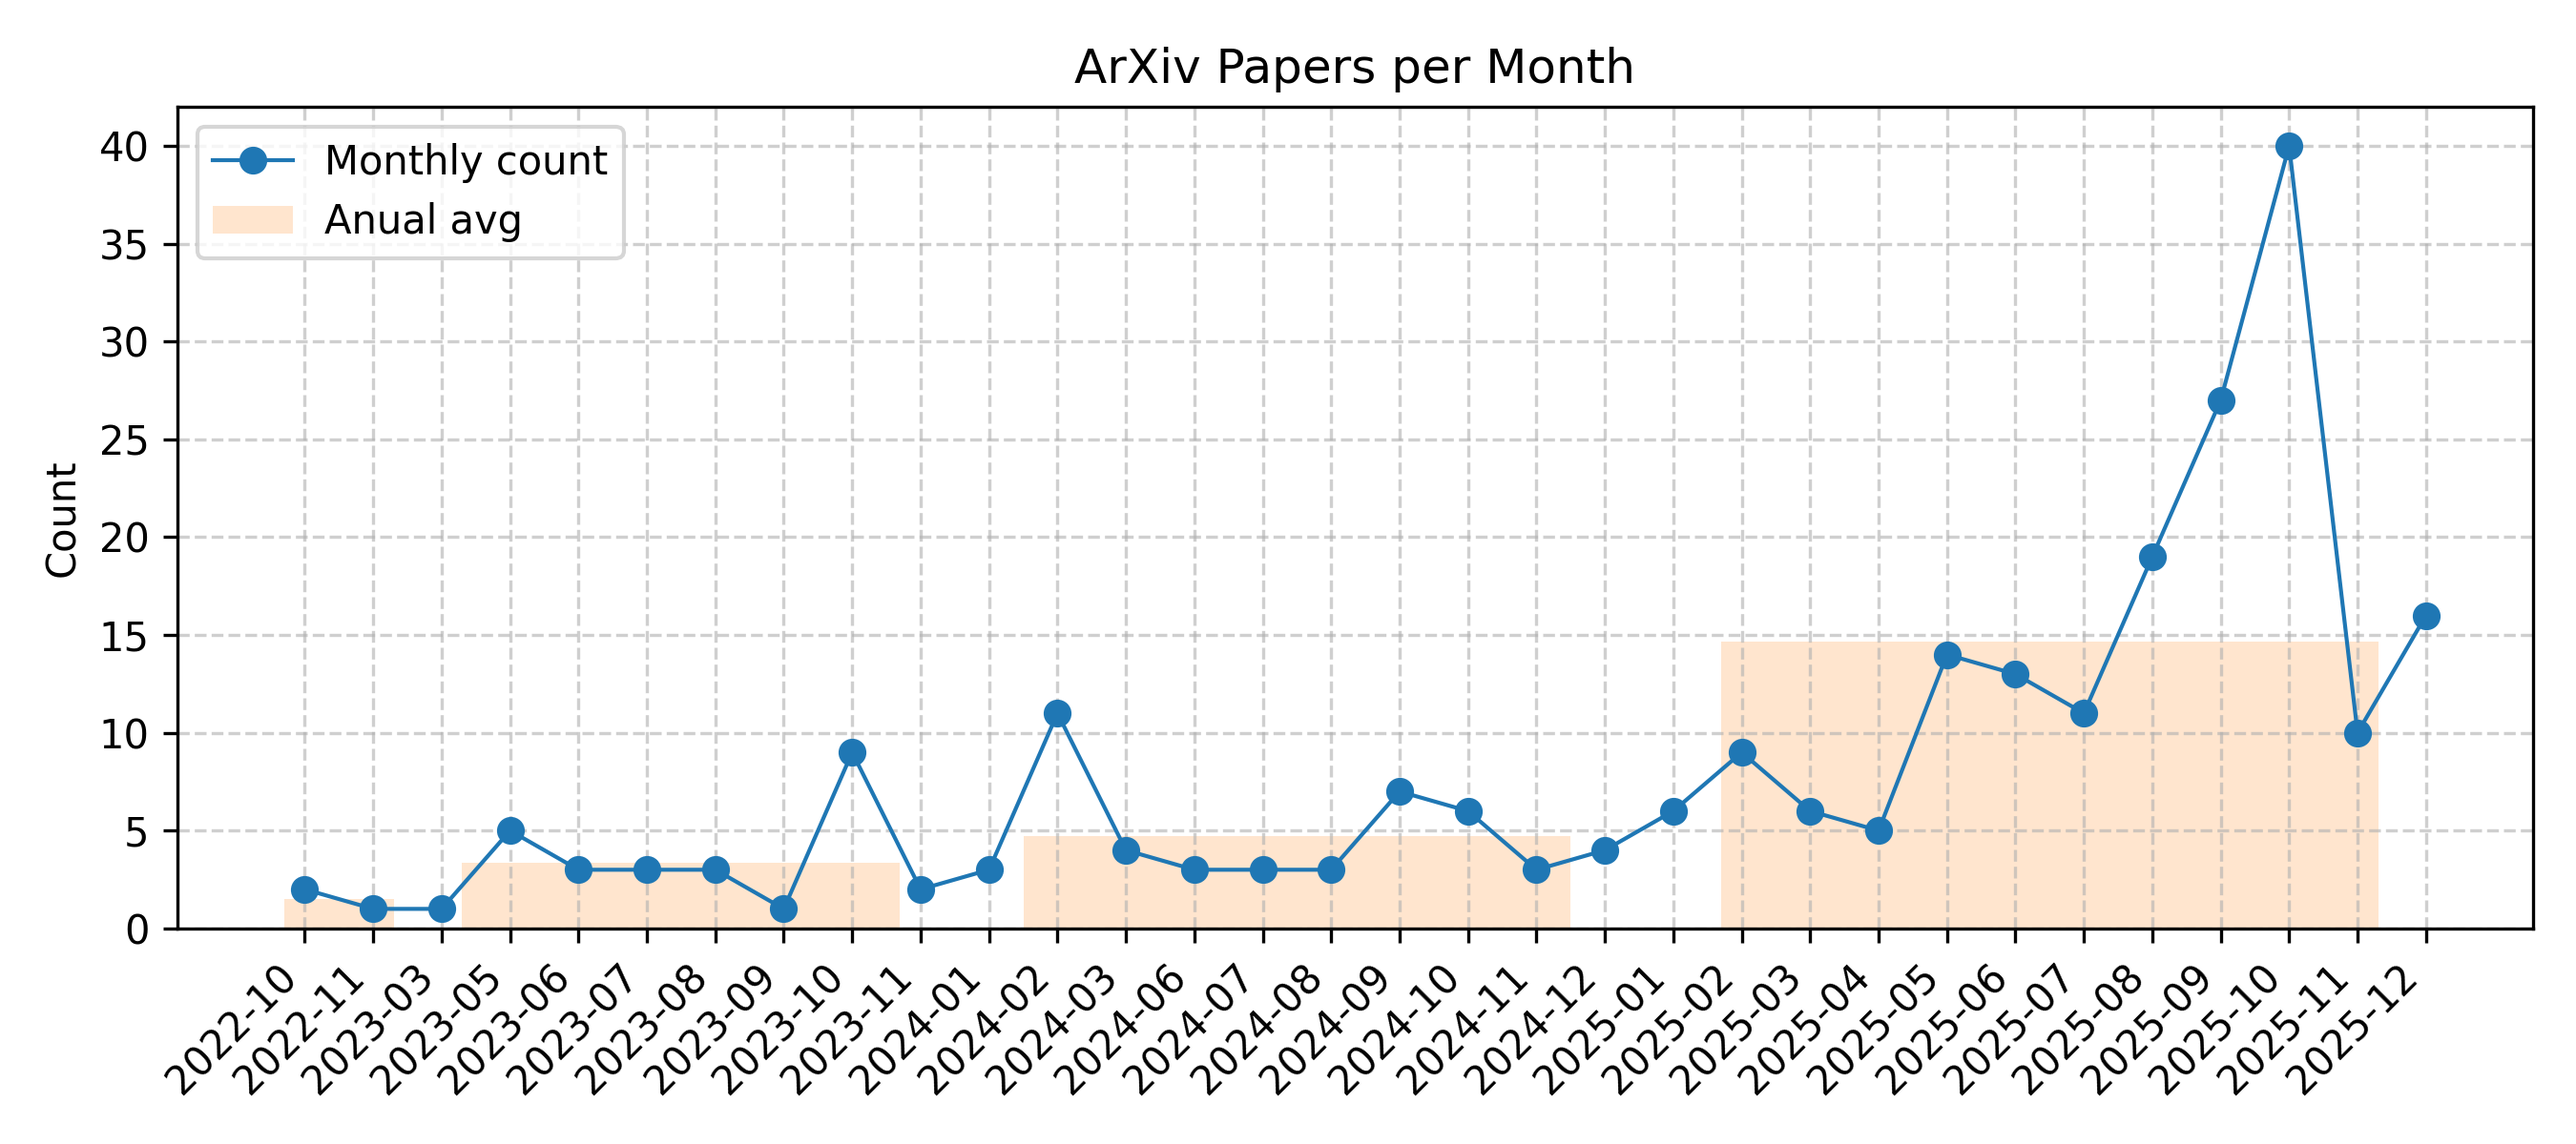
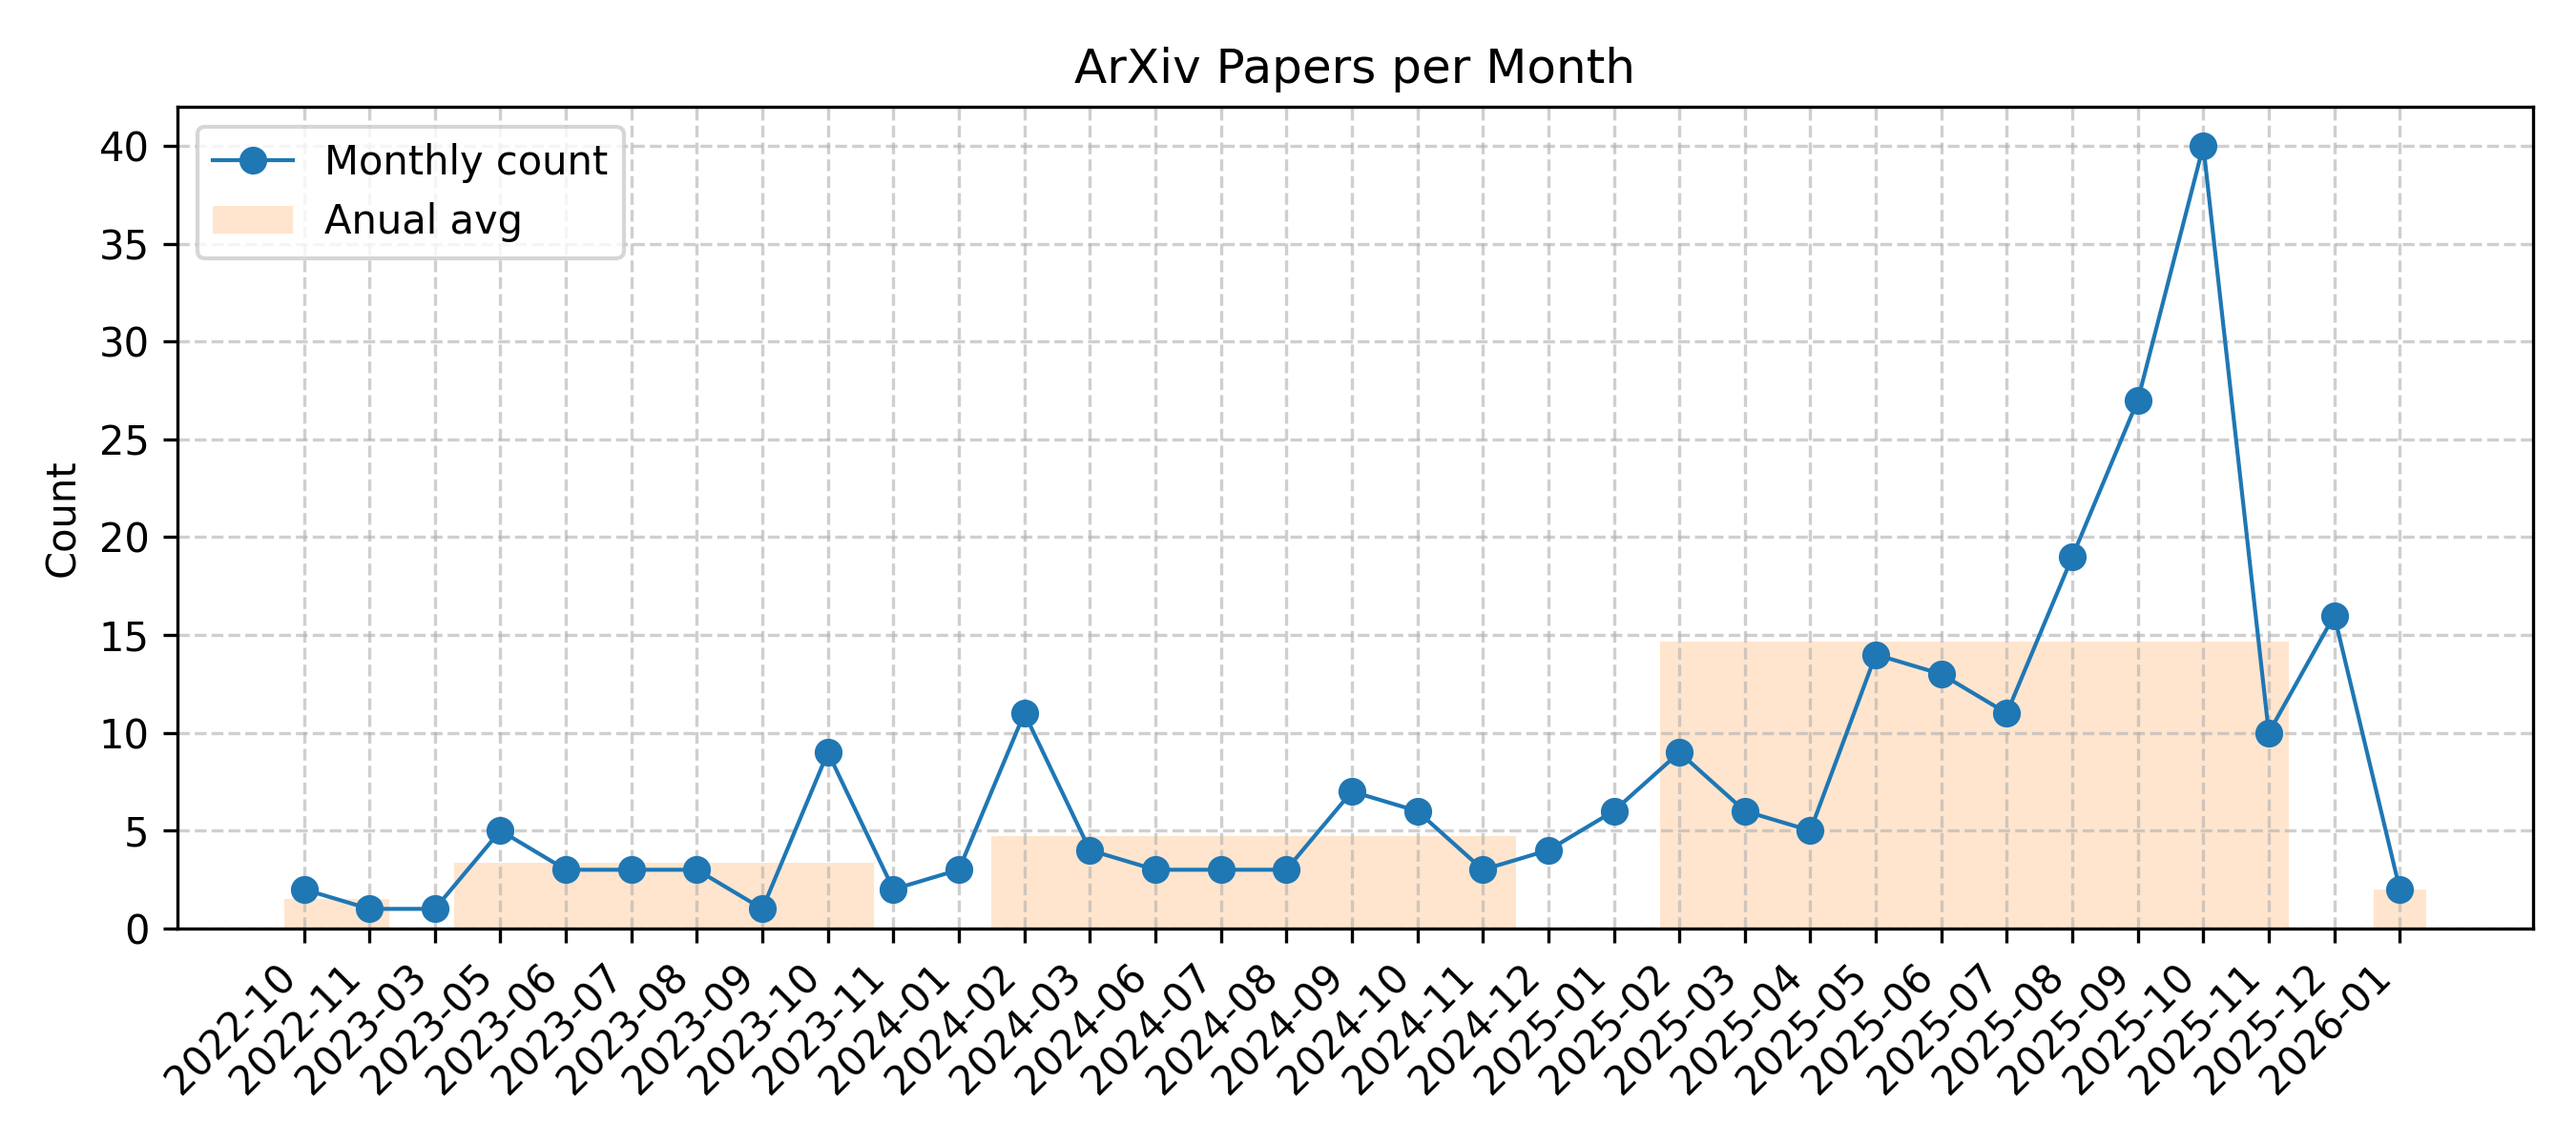
Github Action Automatic Update Diffusion NLP Arxiv Papers

diff --git a/README.md b/README.md
@@ -5,7 +5,7 @@
 
 For more carefully curated articles, you can refer to this [repository](https://github.com/bansky-cl/Diffusion_NLP_Papers).
 
-## Updated on 2026.01.05
+## Updated on 2026.01.06
 
 ![Monthly Trend](imgs/trend.png)
 
@@ -13,6 +13,8 @@ For more carefully curated articles, you can refer to this [repository](https://
 
 |Date|Title|label|Abstract|PDF|Code|
 |---|---|---|---|---|---|
+|**2026-01-05**|**CD4LM: Consistency Distillation and aDaptive Decoding for Diffusion Language Models**|cs.CL| <details><summary>Full Abstract</summary>Autoregressive large language models achieve strong results on many benchmarks, but decoding remains fundamentally latency-limited by sequential dependence on previously generated tokens. Diffusion language models (DLMs) promise parallel generation but suffer from a fundamental static-to-dynamic misalignment: Training optimizes local transitions under fixed schedules, whereas efficient inference requires adaptive "long-jump" refinements through unseen states. Our goal is to enable highly parallel decoding for DLMs with low number of function evaluations while preserving generation quality. To achieve this, we propose CD4LM, a framework that decouples training from inference via Discrete-Space Consistency Distillation (DSCD) and Confidence-Adaptive Decoding (CAD). Unlike standard objectives, DSCD trains a student to be trajectory-invariant, mapping diverse noisy states directly to the clean distribution. This intrinsic robustness enables CAD to dynamically allocate compute resources based on token confidence, aggressively skipping steps without the quality collapse typical of heuristic acceleration. On GSM8K, CD4LM matches the LLaDA baseline with a 5.18x wall-clock speedup; across code and math benchmarks, it strictly dominates the accuracy-efficiency Pareto frontier, achieving a 3.62x mean speedup while improving average accuracy. Code is available at https://github.com/yihao-liang/CDLM</details>|[2601.02236v1](http://arxiv.org/abs/2601.02236v1)| null|
+|**2026-01-05**|**Deferred Commitment Decoding for Diffusion Language Models with Confidence-Aware Sliding Windows**|cs.CL, cs.AI| <details><summary>Full Abstract</summary>Diffusion language models (DLMs) have recently emerged as a strong alternative to autoregressive models by enabling parallel text generation. To improve inference efficiency and KV-cache compatibility, prior work commonly adopts block-based diffusion, decoding tokens block by block. However, this paradigm suffers from a structural limitation that we term Boundary-Induced Context Truncation (BICT): undecoded tokens near block boundaries are forced to commit without access to nearby future context, even when such context could substantially reduce uncertainty. This limitation degrades decoding confidence and generation quality, especially for tasks requiring precise reasoning, such as mathematical problem solving and code generation. We propose Deferred Commitment Decoding (DCD), a novel, training-free decoding strategy that mitigates this issue. DCD maintains a confidence-aware sliding window over masked tokens, resolving low-uncertainty tokens early while deferring high-uncertainty tokens until sufficient contextual evidence becomes available. This design enables effective bidirectional information flow within the decoding window without sacrificing efficiency. Extensive experiments across multiple diffusion language models, benchmarks, and caching configurations show that DCD improves generation accuracy by 1.39% with comparable time on average compared to fixed block-based diffusion methods, with the most significant improvement reaching 9.0%. These results demonstrate that deferring token commitment based on uncertainty is a simple yet effective principle for improving both the quality and efficiency of diffusion language model decoding.</details>|[2601.02076v1](http://arxiv.org/abs/2601.02076v1)| null|
 |**2025-12-30**|**Activation Steering for Masked Diffusion Language Models**|cs.CL| <details><summary>Full Abstract</summary>Masked diffusion language models (MDLMs) generate text through an iterative denoising process. They have recently gained attention due to mask-parallel decoding and competitive performance with autoregressive large language models. However, effective mechanisms for inference-time control and steering in MDLMs remain largely unexplored. We present an activation-steering framework for MDLMs that computes layer-wise steering vectors from a single forward pass using contrastive examples, without simulating the denoising trajectory. These directions are applied at every reverse-diffusion step, yielding an efficient inference-time control mechanism. Experiments on LLaDA-8B-Instruct demonstrate reliable modulation of high-level attributes, with ablations examining the effects of steering across transformer sub-modules and token scope (prompt vs.\ response).</details>|[2512.24143v1](http://arxiv.org/abs/2512.24143v1)| null|
 |**2025-12-28**|**WeDLM: Reconciling Diffusion Language Models with Standard Causal Attention for Fast Inference**|cs.CL| <details><summary>Full Abstract</summary>Autoregressive (AR) generation is the standard decoding paradigm for Large Language Models (LLMs), but its token-by-token nature limits parallelism at inference time. Diffusion Language Models (DLLMs) offer parallel decoding by recovering multiple masked tokens per step; however, in practice they often fail to translate this parallelism into deployment speed gains over optimized AR engines (e.g., vLLM). A key reason is that many DLLMs rely on bidirectional attention, which breaks standard prefix KV caching and forces repeated contextualization, undermining efficiency. We propose WeDLM, a diffusion decoding framework built entirely on standard causal attention to make parallel generation prefix-cache friendly. The core idea is to let each masked position condition on all currently observed tokens while keeping a strict causal mask, achieved by Topological Reordering that moves observed tokens to the physical prefix while preserving their logical positions. Building on this property, we introduce a streaming decoding procedure that continuously commits confident tokens into a growing left-to-right prefix and maintains a fixed parallel workload, avoiding the stop-and-wait behavior common in block diffusion methods. Experiments show that WeDLM preserves the quality of strong AR backbones while delivering substantial speedups, approaching 3x on challenging reasoning benchmarks and up to 10x in low-entropy generation regimes; critically, our comparisons are against AR baselines served by vLLM under matched deployment settings, demonstrating that diffusion-style decoding can outperform an optimized AR engine in practice.</details>|[2512.22737v1](http://arxiv.org/abs/2512.22737v1)| null|
 |**2025-12-27**|**On the Role of Discreteness in Diffusion LLMs**|cs.CL| <details><summary>Full Abstract</summary>Diffusion models offer appealing properties for language generation, such as parallel decoding and iterative refinement, but the discrete and highly structured nature of text challenges the direct application of diffusion principles. In this paper, we revisit diffusion language modeling from the view of diffusion process and language modeling, and outline five properties that separate diffusion mechanics from language-specific requirements. We first categorize existing approaches into continuous diffusion in embedding space and discrete diffusion over tokens. We then show that each satisfies only part of the five essential properties and therefore reflects a structural trade-off. Through analyses of recent large diffusion language models, we identify two central issues: (i) uniform corruption does not respect how information is distributed across positions, and (ii) token-wise marginal training cannot capture multi-token dependencies during parallel decoding. These observations motivate diffusion processes that align more closely with the structure of text, and encourage future work toward more coherent diffusion language models.</details>|[2512.22630v1](http://arxiv.org/abs/2512.22630v1)| null|
@@ -267,7 +269,7 @@ For more carefully curated articles, you can refer to this [repository](https://
 |**2022-11-01**|**DiffusER: Discrete Diffusion via Edit-based Reconstruction**|cs.CL, cs.LG| <details><summary>Full Abstract</summary>In text generation, models that generate text from scratch one token at a time are currently the dominant paradigm. Despite being performant, these models lack the ability to revise existing text, which limits their usability in many practical scenarios. We look to address this, with DiffusER (Diffusion via Edit-based Reconstruction), a new edit-based generative model for text based on denoising diffusion models -- a class of models that use a Markov chain of denoising steps to incrementally generate data. DiffusER is not only a strong generative model in general, rivalling autoregressive models on several tasks spanning machine translation, summarization, and style transfer; it can also perform other varieties of generation that standard autoregressive models are not well-suited for. For instance, we demonstrate that DiffusER makes it possible for a user to condition generation on a prototype, or an incomplete sequence, and continue revising based on previous edit steps.</details>|[2210.16886v1](http://arxiv.org/abs/2210.16886v1)| null|
 |**2023-02-01**|**Diffuser: Efficient Transformers with Multi-hop Attention Diffusion for Long Sequences**|cs.LG, cs.CL|<details><summary>Full Abstract</summary>Efficient Transformers have been developed for long sequence modeling, due to their subquadratic memory and time complexity. Sparse Transformer is a popular approach to improving the efficiency of Transformers by restricting self-attention to locations specified by the predefined sparse patterns. However, leveraging sparsity may sacrifice expressiveness compared to full-attention, when important token correlations are multiple hops away. To combine advantages of both the efficiency of sparse transformer and the expressiveness of full-attention Transformer, we propose \textit{Diffuser}, a new state-of-the-art efficient Transformer. Diffuser incorporates all token interactions within one attention layer while maintaining low computation and memory costs. The key idea is to expand the receptive field of sparse attention using Attention Diffusion, which computes multi-hop token correlations based on all paths between corresponding disconnected tokens, besides attention among neighboring tokens. Theoretically, we show the expressiveness of Diffuser as a universal sequence approximator for sequence-to-sequence modeling, and investigate its ability to approximate full-attention by analyzing the graph expander property from the spectral perspective. Experimentally, we investigate the effectiveness of Diffuser with extensive evaluations, including language modeling, image modeling, and Long Range Arena (LRA). Evaluation results show that Diffuser achieves improvements by an average of 0.94% on text classification tasks and 2.30% on LRA, with 1.67$\times$ memory savings compared to state-of-the-art benchmarks, which demonstrates superior performance of Diffuser in both expressiveness and efficiency aspects.</details>|[2210.11794v2](http://arxiv.org/abs/2210.11794v2)|**[link](https://github.com/asFeng/Diffuser)**|
 
-<p align=right>(<a href=#Updated-on-20260105>back to top</a>)</p>
+<p align=right>(<a href=#Updated-on-20260106>back to top</a>)</p>
 
 [contributors-shield]: https://img.shields.io/github/contributors/bansky-cl/diffusion-nlp-paper-arxiv.svg?style=for-the-badge
 [contributors-url]: https://github.com/bansky-cl/diffusion-nlp-paper-arxiv/graphs/contributors
